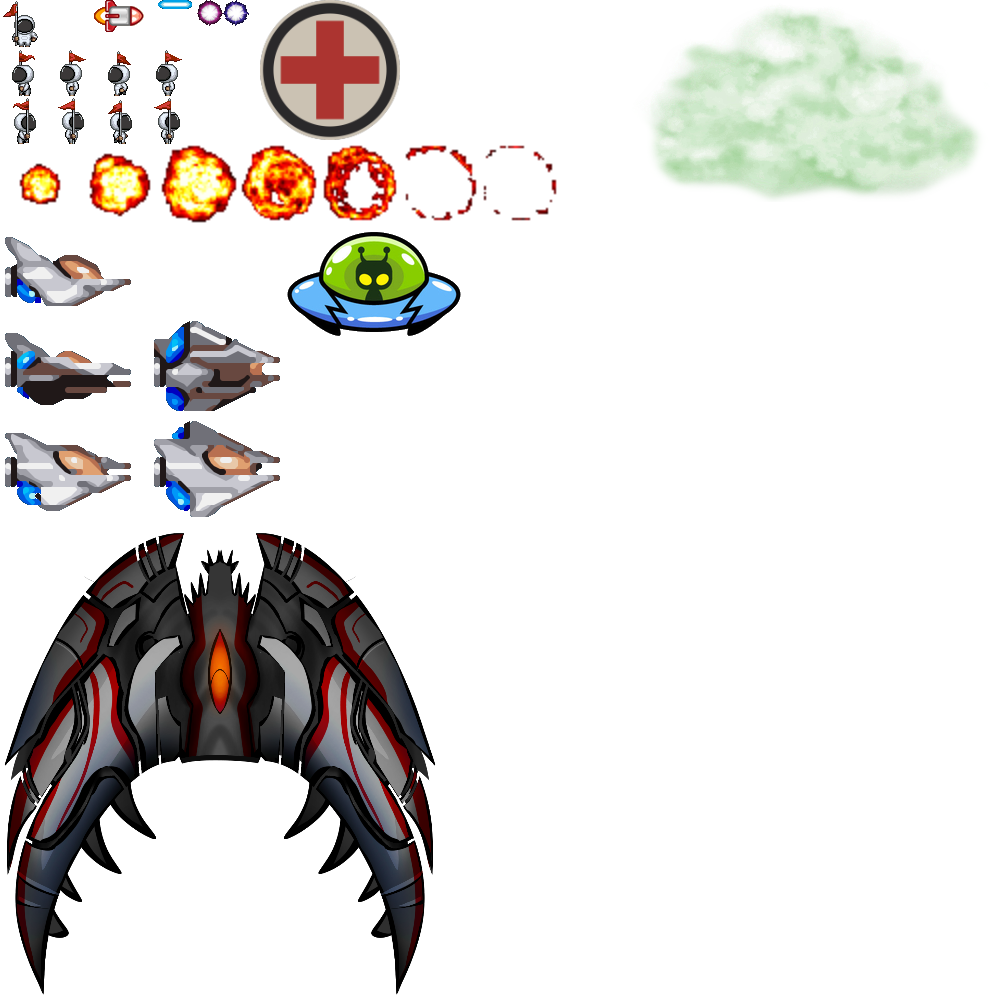
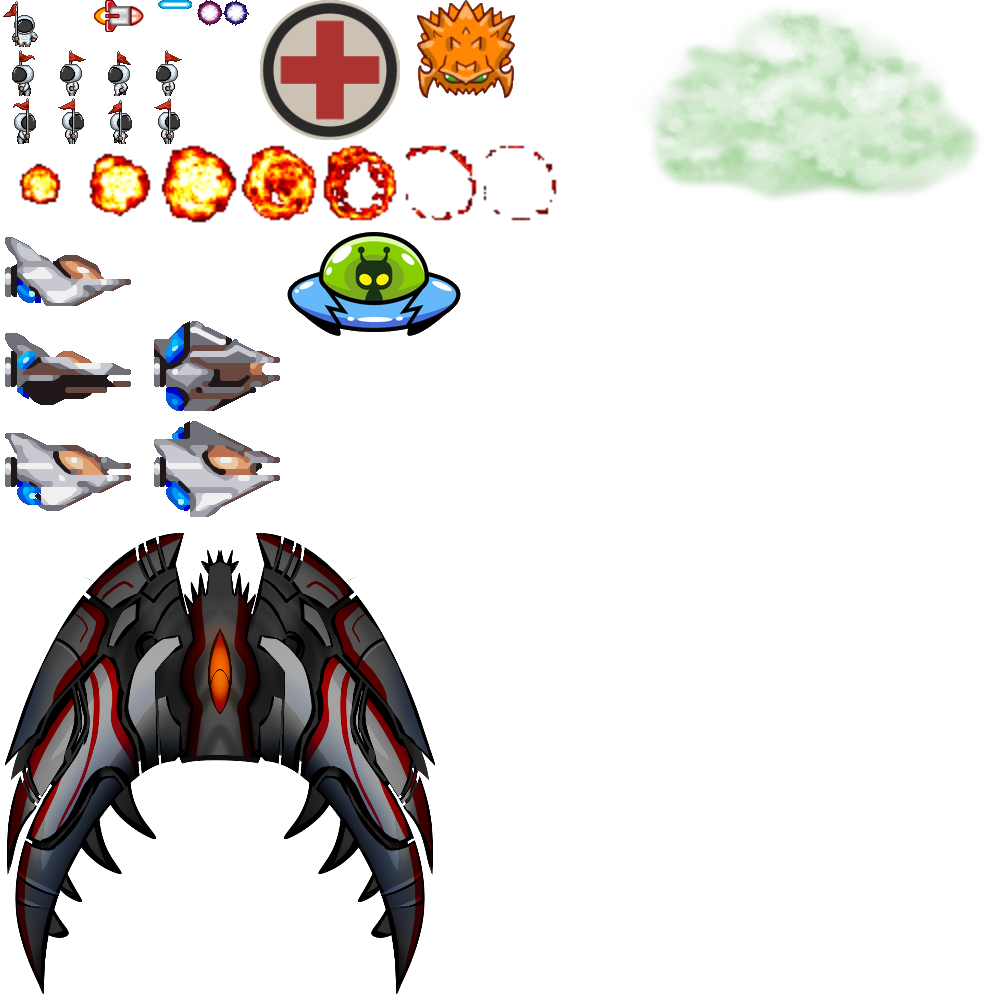
Mutant Started

Changed region(s): [[0.403, 0.0, 0.527, 0.093]]

diff --git a/SFML Engine/SFML Engine/Mutant.cpp b/SFML Engine/SFML Engine/Mutant.cpp
@@ -1,0 +1,103 @@
+#include "stdafx.h"
+#include "Mutant.h"
+
+
+
+Mutant::Mutant(sf::Texture & tex, sf::Vector2i screenBounds, sf::Vector2i worldBounds)
+	: m_animatedSprite(sf::seconds(0.1f), true, false)
+	, m_animations(NUM_OF_ANIMS)
+	, m_screenBounds(screenBounds)
+	, m_worldBounds(sf::Vector2i(worldBounds.x, worldBounds.y + abs(worldBounds.x)))
+	, m_alive(false)
+	, m_health(0)
+{
+	m_animations[Anims::Default].setSpriteSheet(tex);
+	m_animations[Anims::Default].addFrame(sf::IntRect(417, 0, 98, 98));
+
+	m_animations[Anims::Explode].setSpriteSheet(tex);
+	m_animations[Anims::Explode].addFrame(sf::IntRect(0, 144, 80, 80));
+	m_animations[Anims::Explode].addFrame(sf::IntRect(80, 144, 80, 80));
+	m_animations[Anims::Explode].addFrame(sf::IntRect(160, 144, 80, 80));
+	m_animations[Anims::Explode].addFrame(sf::IntRect(240, 144, 80, 80));
+	m_animations[Anims::Explode].addFrame(sf::IntRect(320, 144, 80, 80));
+	m_animations[Anims::Explode].addFrame(sf::IntRect(400, 144, 80, 80));
+	m_animations[Anims::Explode].addFrame(sf::IntRect(480, 144, 80, 80));
+	m_animations[Anims::Explode].addFrame(sf::IntRect(560, 144, 80, 80));
+
+	m_currAnimation = &m_animations[Anims::Default];
+	m_animatedSprite.play(*m_currAnimation);
+}
+
+Mutant::~Mutant()
+{
+}
+void Mutant::init(sf::Vector2f pos)
+{
+	m_alive = true;
+	m_health = 100;
+	m_velocity = sf::Vector2f(0, 300);
+	m_currAnimation = &m_animations[Anims::Default];
+	m_animatedSprite.setScale(1, 1);
+	m_animatedSprite.play(*m_currAnimation);
+	m_animatedSprite.setPosition(pos);
+	m_animatedSprite.setOrigin(m_animatedSprite.getLocalBounds().width * 0.5f, m_animatedSprite.getLocalBounds().height * 0.5f);
+	m_animatedSprite.setScale(1, 1);
+}
+void Mutant::update(sf::Time deltaTime, sf::Vector2f playerPos)
+{
+	if (m_state == Start)
+	{
+		if (m_animatedSprite.getPosition().y > 200)
+		{
+			m_state == Seek;
+			m_velocity.y = 0;
+		}
+	}
+	m_animatedSprite.move(m_velocity * deltaTime.asSeconds());
+	m_animatedSprite.update(deltaTime);
+}
+
+
+
+void Mutant::checkBounds()
+{
+}
+
+sf::Vector2f Mutant::getPosition()
+{
+	return m_animatedSprite.getPosition();
+}
+
+void Mutant::setPosition(sf::Vector2f position)
+{
+	m_animatedSprite.setPosition(position);
+}
+
+AnimatedSprite Mutant::draw()
+{
+	return m_animatedSprite;
+}
+
+void Mutant::setDamage(int damage)
+{
+}
+
+int Mutant::getHealth()
+{
+	return m_health;
+}
+
+int Mutant::getRadius()
+{
+	return COLLISION_RADIUS;
+}
+
+bool Mutant::isAlive()
+{
+	return m_alive;
+}
+
+void Mutant::setAlive(bool alive)
+{
+	m_alive = alive;
+}

diff --git a/SFML Engine/SFML Engine/GameScene.cpp b/SFML Engine/SFML Engine/GameScene.cpp
@@ -50,6 +50,10 @@ GameScene::GameScene(SceneStack& stack, Context context)
 	}
 	for (int i = 0; i < NUM_OF_ALIENS; i++)
 	{
+		m_mutants.push_back(new Mutant(context.textures->get(Textures::Astro), m_screenSize, m_worldSize));
+	}
+	for (int i = 0; i < NUM_OF_ALIENS; i++)
+	{
 		m_aliens.push_back(new Alien(context.textures->get(Textures::Astro), m_screenSize, m_worldSize));
 	}
 	BulletManager::Instance()->init(context.textures->get(Textures::Astro), MAX_BULLETS);
@@ -253,6 +257,10 @@ void GameScene::draw()
 			{
 				window.draw(m_aliens[i]->draw());
 			}
+			if (m_mutants[i]->isAlive() == true)
+			{
+				window.draw(m_mutants[i]->draw());
+			}
 		}
 		for (int i = 0; i < NUM_OF_ASTROS; i++)
 		{
@@ -359,11 +367,15 @@ bool GameScene::update(sf::Time deltaTime)
 					m_nests[i]->setDamage(MAX_SMARTBOMB_DAMAGE);
 				}
 			}
-			for (int i = 0; i < m_aliens.size(); i++)
+			for (int i = 0; i < NUM_OF_ALIENS; i++)
 			{
 				if (m_aliens[i]->getAlive() == true && (m_aliens[i]->getPosition().x >(m_currPlayerPos.x - m_halfScreenSize.x) && (m_aliens[i]->getPosition().x < (m_currPlayerPos.x + m_halfScreenSize.x))))
 				{
 					m_aliens[i]->setDamage(MAX_SMARTBOMB_DAMAGE);
+				}
+				if (m_mutants[i]->isAlive() == true && (m_mutants[i]->getPosition().x >(m_currPlayerPos.x - m_halfScreenSize.x) && (m_mutants[i]->getPosition().x < (m_currPlayerPos.x + m_halfScreenSize.x))))
+				{
+					m_mutants[i]->setDamage(MAX_SMARTBOMB_DAMAGE);
 				}
 			}
 			for (int i = 0; i < bullets.size(); i++)
@@ -419,7 +431,7 @@ bool GameScene::update(sf::Time deltaTime)
 			if(m_nests[i]->update(deltaTime, m_currPlayerPos))
 			{
 				// spawn enemy
-				for (int j = 0; j < m_aliens.size(); j++)
+				for (int j = 0; j < NUM_OF_ALIENS; j++)
 				{
 					if (m_aliens[j]->getAlive() == false)
 					{
@@ -430,11 +442,22 @@ bool GameScene::update(sf::Time deltaTime)
 			}
 		}
 
-		for (int i = 0; i < m_aliens.size(); i++)
+		for (int i = 0; i < NUM_OF_ALIENS; i++)
 		{
+			if (m_mutants[i]->isAlive())
+			{
+				m_mutants[i]->update(deltaTime, m_currPlayerPos);
+			}
 			if(m_aliens[i]->run(&m_aliens, deltaTime, m_currPlayerPos))
 			{
-				// Spawn a new enemy
+				for (int j = 0; j < NUM_OF_ALIENS; j++)
+				{
+					if (m_mutants[j]->isAlive() == false)
+					{
+						m_mutants[j]->init(m_aliens[i]->getPosition());
+						break;
+					}
+				}
 			}
 
 		}

diff --git a/SFML Engine/SFML Engine/Mutant.h b/SFML Engine/SFML Engine/Mutant.h
@@ -1,0 +1,57 @@
+#pragma once
+#include "AnimatedSprite.h"
+#include "BulletManager.h"
+class Mutant
+{
+public:
+	enum Anims
+	{
+		Default,
+		Explode,
+	};
+	enum States
+	{
+		Start, 
+		Seek,
+		FormationA,
+		FormationB,
+		FormationC,
+	};
+
+	Mutant(sf::Texture & tex, sf::Vector2i screenBounds, sf::Vector2i worldBounds);
+	~Mutant();
+
+	void update(sf::Time deltaTime, sf::Vector2f playerPos);
+	void init(sf::Vector2f pos);
+	void checkBounds();
+	sf::Vector2f getPosition();
+	void setPosition(sf::Vector2f position);
+	AnimatedSprite draw();
+
+	void setDamage(int damage);
+	int getHealth();
+	int getRadius();
+	bool isAlive();
+	void setAlive(bool alive);
+
+
+private:
+	int NUM_OF_ANIMS = 3;
+	const int COLLISION_RADIUS = 150;
+	const int BULLET_COOLDOWN_TIMER = 2;
+	const int BULLET_RANGE = 700;
+	float m_bulletReloadTimer;
+	int m_health;
+	bool m_alive;
+	int m_state;
+	sf::Vector2i m_screenBounds;
+	sf::Vector2i m_worldBounds;
+	sf::Vector2f m_velocity;
+	sf::Vector2f m_acceleration;
+
+	sf::Time m_frameTime;
+	AnimatedSprite m_animatedSprite;
+	std::vector<Animation> m_animations;
+	Animation* m_currAnimation;
+};
+

diff --git a/SFML Engine/SFML Engine/GameScene.h b/SFML Engine/SFML Engine/GameScene.h
@@ -9,6 +9,7 @@
 #include "CollisionManager.h"
 #include "Obstacle.h"
 #include "Alien.h"
+#include "Mutant.h"
 
 
 class GameScene : public Scene
@@ -48,6 +49,7 @@ private:
 	std::vector<Astronaut*> m_astronauts;
 	std::vector<Nest*> m_nests;
 	std::vector<Alien*> m_aliens;
+	std::vector<Mutant*> m_mutants;
 	std::vector<Obstacle*> m_gasClouds;
 	std::vector<Obstacle*> m_healthPacks;
 	sf::Vector2f m_currPlayerPos;
